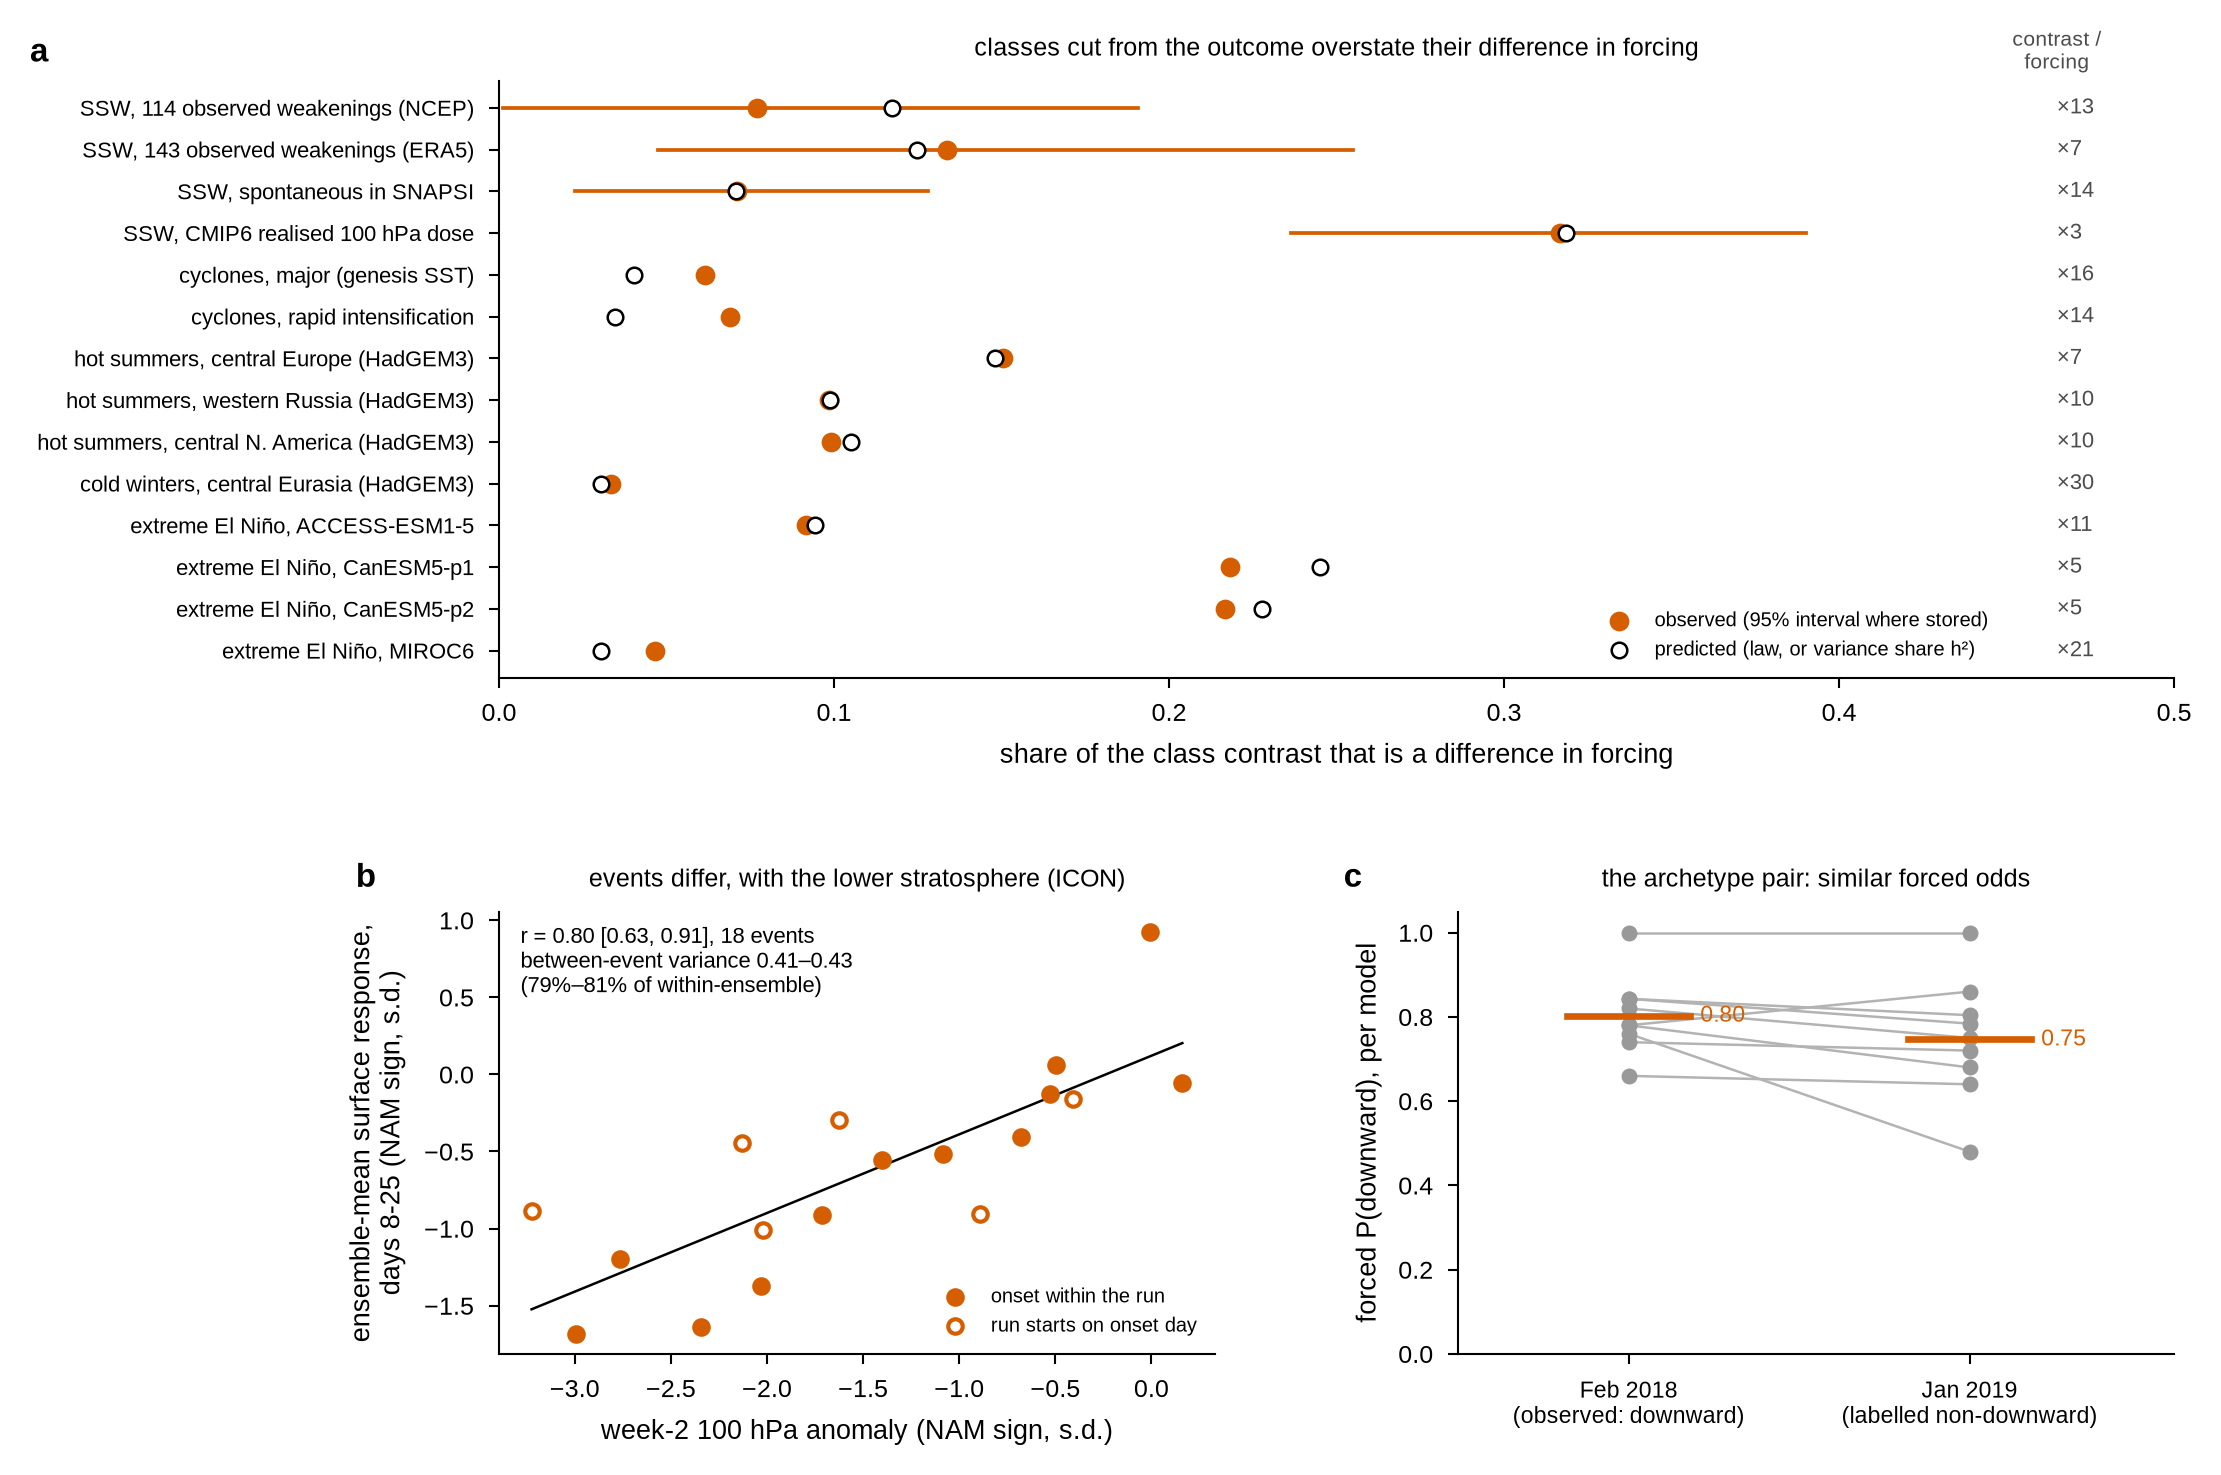
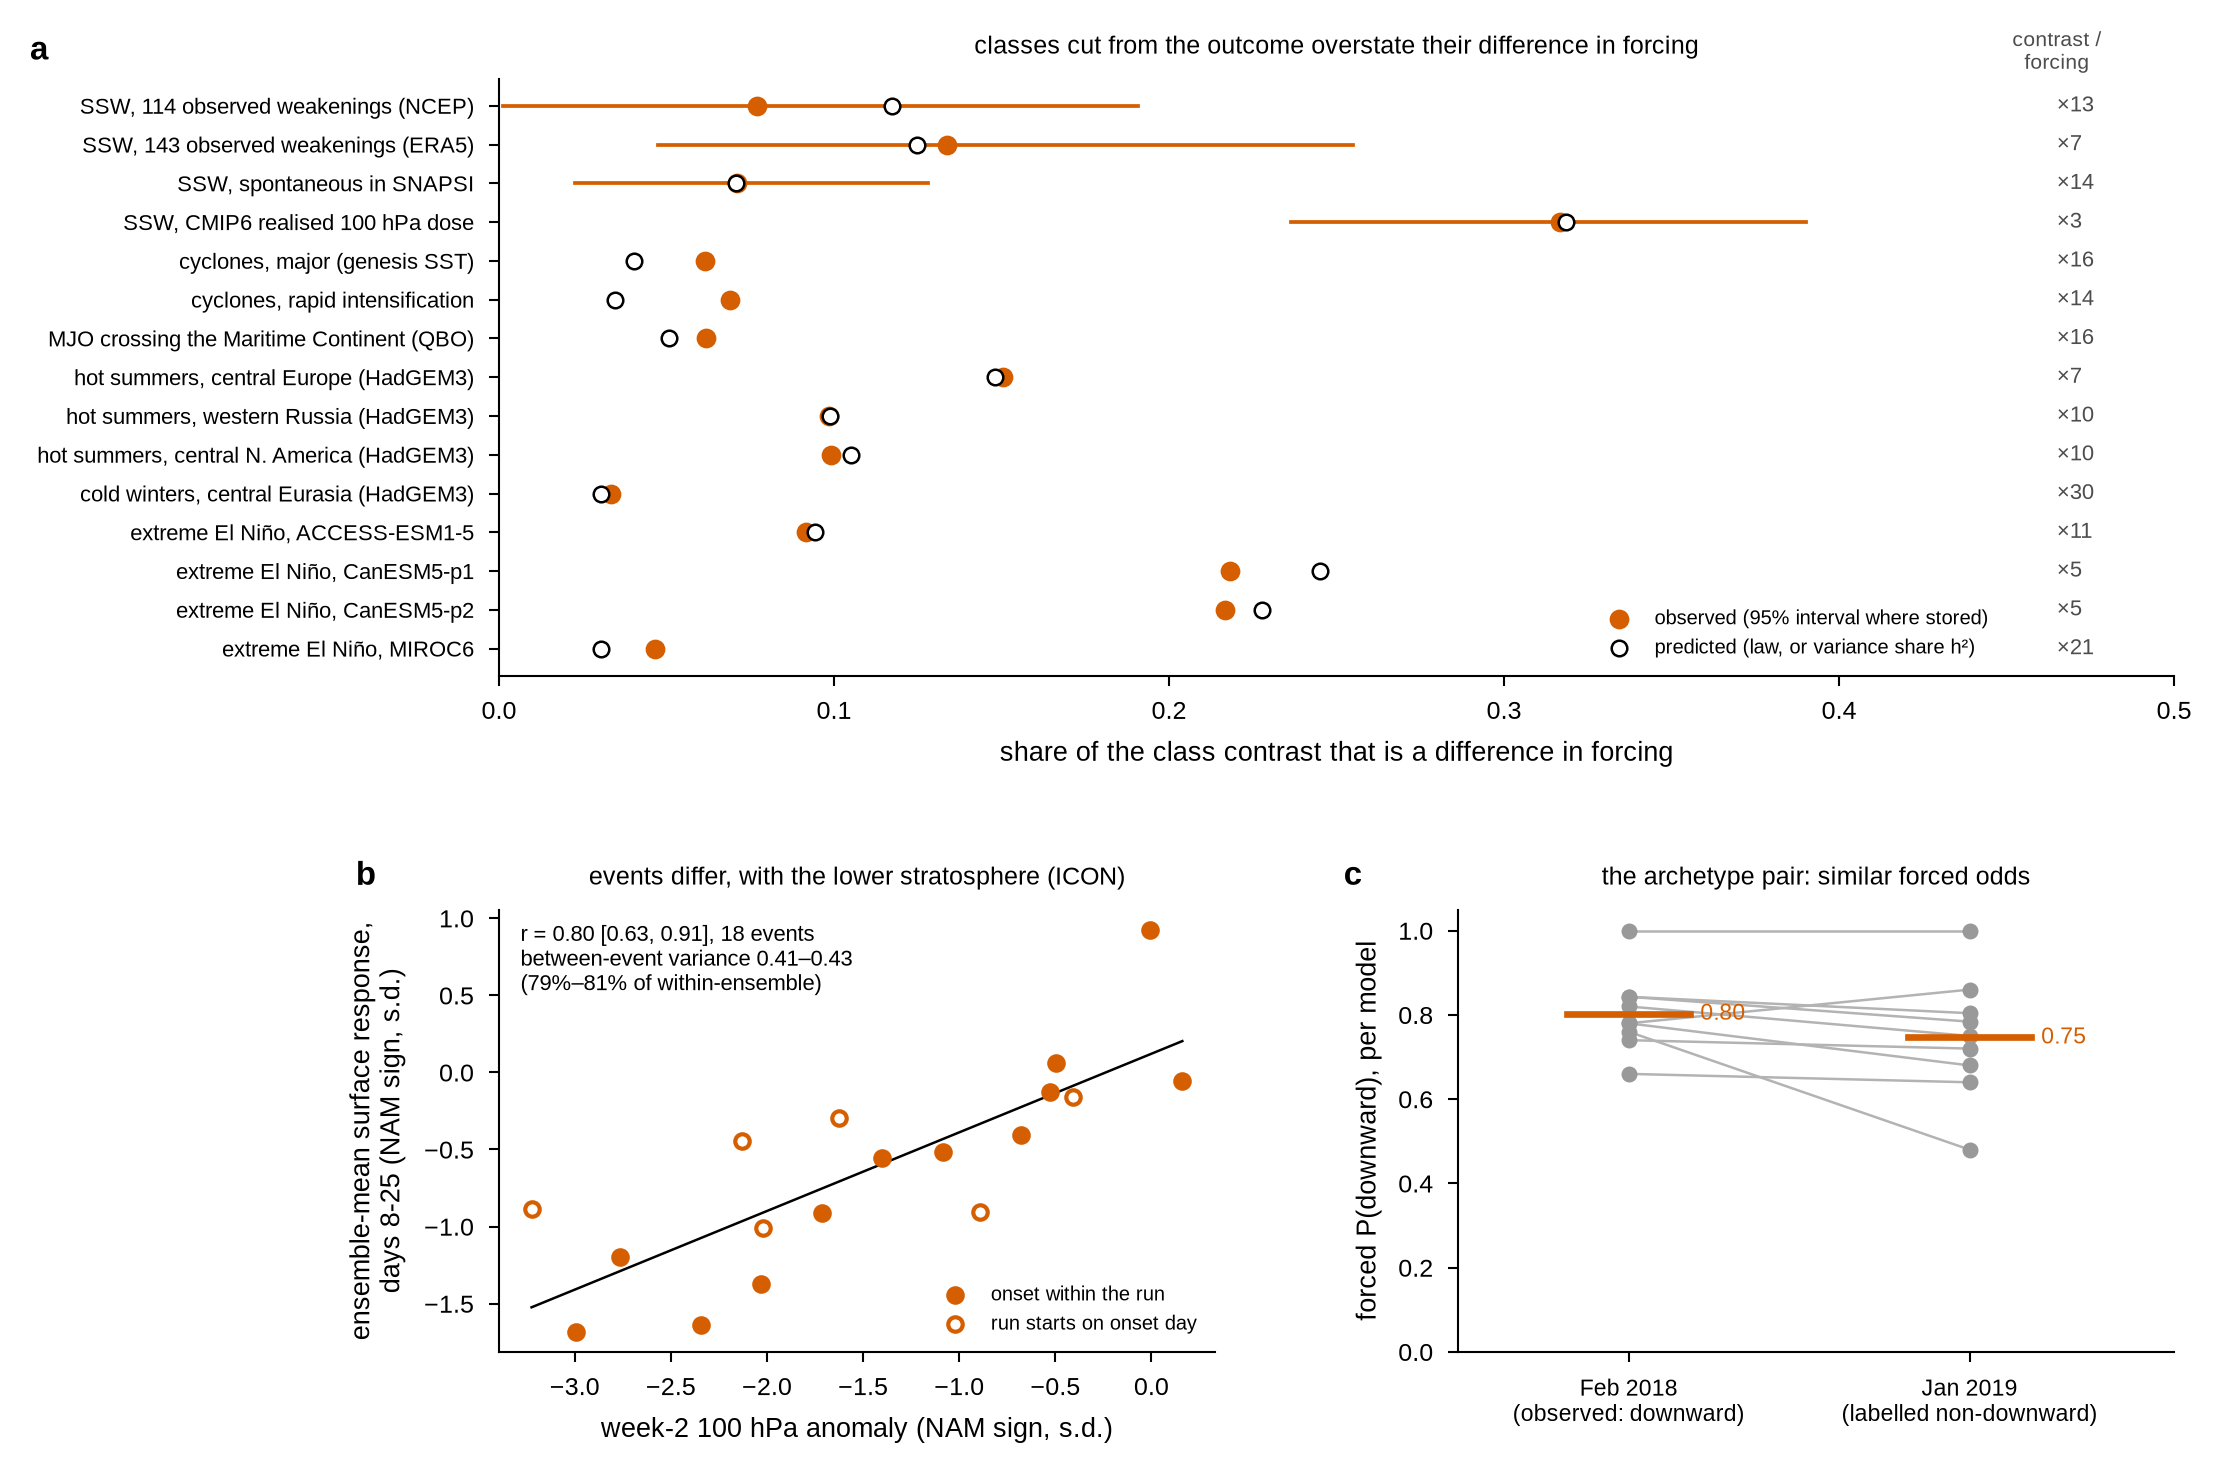
Revision 10c: MJO test written in (registered 36c55ba: QBO changes the crossing rate 40% -> 60%, crossing law holds, forced share = law, fixed types unresolved); Fig. 3a gains the MJO set (15 sets, 3-30-fold, median 10.9); every placeholder filled (cover letter header, date, signature, suggested rev

diff --git a/ssw-design-analysis/09_figures/out/tableED1_tests.tex b/ssw-design-analysis/09_figures/out/tableED1_tests.tex
@@ -118,6 +118,7 @@
 \texttt{CI-1} & validity of intervals from resampling 8-9 SNAPSI centres (seven headline statistics): centre bootstrap vs cluster-robust t, coverage simulated in each layout & revision-8 primary & committed before any interval was recomputed & \texttt{822f418} & paired\_diff: [$-0.1443$, 0.0878] (holds); resid\_shift\_NH: [$-0.0406$, 0.1208] (holds); resid\_locscale\_NH: [$-0.0539$, 0.1372] (holds); Delta\_b\_strong11: [0.0111, 0.3357] (no valid method); regional\_resid: [$-0.2803$, 0.1081] (inconclusive); free\_law\_resid: [$-0.1089$, 0.0846] (holds); SH\_resid\_locscale: [$-0.1912$, 0.1183] (holds); centre bootstrap undercovers in all seven &  &  \\
 \texttt{EN-1} & extreme El Nino (DJF Nino3 rain > 5 mm/day): fixed two-type mixing across 1951-80, 2021-50, 2070-99 in CMIP6 large ensembles selected by Cai et al.'s rule (Holm over models) & revision-8 primary & committed before data (gate before data) & \texttt{3342af3} & selected ['CanESM5-p1', 'CanESM5-p2', 'MIROC6']: extreme El Nino is not a fixed regime whose frequency forcing changes &  &  \\
 \texttt{EN-2} & strong El Nino regime (E index, relative SST) in models that produce one: fixed regimes with free weights vs regimes free per level, 1951-80, 2021-50, 2070-99 (likelihood ratio, parametric bootstrap, rule p <= 0.03 after two calibrations failed their gates; Holm over models) & revision-10 co-primary & committed before data; calibration amended before any statistic & \texttt{db36561, fe25843} & selected ['CESM1-LE', 'GFDL-CM3', 'MIROC6']: LR rejects in all (Holm p 0.0015, 0.0015, 0.0015), but post hoc it also rejects fixed non-Gaussian regimes (false rejection CESM1-LE 0.19, GFDL-CM3 0.11, MIROC6 1.0, skewed 1.0); calibrated post hoc against fixed regimes of each model's own shape: empirical Holm p CESM1-LE 0.003, GFDL-CM3 0.003, MIROC6 0.006; moment test not resolved; shape-free CDF form rejects only in MIROC6 (post hoc); registered tests undecided &  &  \\
+\texttt{MJ-1} & MJO events crossing vs blocked by the Maritime Continent: fixed two-type mixing of the furthest RMM phase reached across QBO u50 terciles (119 NDJFM events, winter bootstrap) & revision-10 primary & committed before data (gate before data) & \texttt{f07480a} & not resolved; crossing law $-0.0469$ [$-0.1892$, 0.1683] (holds); forced share 0.0618 vs law 0.0508 & 0.6351 &  \\
 \texttt{CI-2} & few-cluster robustness of the seven SNAPSI statistics: sign-flip, wild cluster bootstrap-t, KMA+UKMO merged, 90\% equivalence; validated with and without a shared KMA/UKMO effect & revision-10 secondary & committed before any interval was computed & \texttt{db36561} & paired\_diff: holds (4 valid methods); resid\_shift\_NH: holds (3 valid methods); resid\_locscale\_NH: holds (4 valid methods); Delta\_b\_strong11: inconclusive (2 valid methods); regional\_resid: inconclusive (3 valid methods); free\_law\_resid: holds (1 valid methods); SH\_resid\_locscale: no method valid in every layout &  &  \\
 \texttt{GL-4} & the law under SSP5-8.5 2071-2100 vs historical 1985-2014 (precipitation classes; temperature classes empty) & revision-8 secondary & committed before data & \texttt{80edfc5} & 26 of 29 hold, 3 inconclusive, 0 fail &  &  \\
 \texttt{DAV} & January 2021, CESM2(WACCM6) SSW vs scrambled-stratosphere ensembles (21 members), 4 Jan initialisation: back-shift contrast difference; not rejected, low power & revision-5 primary & committed before data & \texttt{738a422} & $-0.4743$ [$-1.3125$, 0.3457] &  &  \\

diff --git a/ssw-design-analysis/10_tables/tableED1_tests.py b/ssw-design-analysis/10_tables/tableED1_tests.py
@@ -86,6 +86,7 @@ def main():
     CIA = J("cluster_ci_audit.json")
     ENX = J("enso_extreme_class.json")
     ENR = J("enso_regime_relative.json")
+    MJO = J("mjo_class_law.json")
     R2 = ("robustness (revision 2)", "committed before run", "4c8b3f2")
     mm = g(MMt, "multimodel", "confirmatory"); nr = g(SRt, "regions", "NEURASIA", "multimodel", "confirmatory")
     rows = [
@@ -475,6 +476,11 @@ def main():
           f"calibrated post hoc against fixed regimes of each model's own shape: empirical Holm p "
           f"{', '.join(f'{k} {v["p_holm"]}' for k, v in (g(ENR,'post_hoc_P1b_empirical_calibration','models') or {}).items())}; "
           f"moment test {g(ENR,'P1_reading')}; shape-free CDF form rejects only in MIROC6 (post hoc); registered tests undecided") if g(ENR, 'P1b_reading') else "pending", None),
+        ("MJ-1", "MJO events crossing vs blocked by the Maritime Continent: fixed two-type mixing of the furthest RMM phase reached across QBO u50 terciles (119 NDJFM events, winter bootstrap)", "revision-10 primary",
+         "committed before data (gate before data)", "f07480a",
+         (f"{g(MJO,'primary','M1_reading')}; crossing law {g(MJO,'primary','M2_law_crossing','residual_sd_units')} {g(MJO,'primary','M2_law_crossing','ci95')} "
+          f"({g(MJO,'primary','M2_law_crossing','reading')}); forced share {g(MJO,'primary','M3_forced_share','R_obs')} vs law {g(MJO,'primary','M3_forced_share','R_LS')}") if g(MJO, 'primary') else "pending",
+         g(MJO, 'primary', 'M1_mixing', 'p_T')),
         ("CI-2", "few-cluster robustness of the seven SNAPSI statistics: sign-flip, wild cluster bootstrap-t, KMA+UKMO merged, 90% equivalence; validated with and without a shared KMA/UKMO effect", "revision-10 secondary",
          "committed before any interval was computed", "db36561",
          ("; ".join(f"{k.split('_', 1)[1]}: " + (f"{'/'.join(sorted(set(v.values())))} ({len(v)} valid methods)" if (v := g(CIA,'r10_few_cluster_robustness','statistics',k,'readings_valid_methods')) else 'no method valid in every layout')

diff --git a/ssw-design-analysis/09_figures/fig3_scope.py b/ssw-design-analysis/09_figures/fig3_scope.py
@@ -10,6 +10,7 @@ Reads (recomputes nothing):
 
   results/current/8_experiment/class_forcing_content.json      forced shares (Z20)
   results/current/8_experiment/enso_extreme_class.json         extreme El Nino (Z22)
+  results/current/8_experiment/mjo_class_law.json              MJO crossing under the QBO (Z26)
 
   a  forced share R of the class contrast (observed, filled; 95% interval where stored) and
      its prediction (open: the law's R_LS where forcing levels are known, else h2), per system
@@ -38,6 +39,7 @@ def main():
     R = S.RESULTS
     cf = json.loads((R / "8_experiment" / "class_forcing_content.json").read_text())
     en = json.loads((R / "8_experiment" / "enso_extreme_class.json").read_text())
+    mj = json.loads((R / "8_experiment" / "mjo_class_law.json").read_text())["primary"]["M3_forced_share"]
     ic = json.loads((R / "5_mechanism" / "icon_event_heterogeneity.json").read_text())["primary_registered"]
     arc = json.loads((R / "8_experiment" / "snapsi_archetype_test.json").read_text())
     grey, verm = "0.6", S.C["vermillion"]
@@ -52,6 +54,7 @@ def main():
     rows.append(("SSW, CMIP6 realised 100 hPa dose", s5["R_obs"], s5["R_obs_summary"]["ci95"], s5["R_h2"], "h2"))
     for k, lab in (("MAJOR", "cyclones, major (genesis SST)"), ("RI", "cyclones, rapid intensification")):
         t = cf["S3_tropical_cyclones"]["global_terciles"][k]; rows.append((lab, t["R_obs"], None, t["R_LS"], "law"))
+    rows.append(("MJO crossing the Maritime Continent (QBO)", mj["R_obs"], None, mj["R_LS"], "law"))
     for k, lab in (("CEUR_JJA", "hot summers, central Europe"), ("WRUS_JJA", "hot summers, western Russia"),
                    ("CNAM_JJA", "hot summers, central N. America"), ("CEAS_DJF", "cold winters, central Eurasia")):
         t = cf["S4_human_forcing_hadgem3"][k]; rows.append((lab + " (HadGEM3)", t["R_obs"], None, t["R_LS"], "law"))

diff --git a/ssw-design-analysis/09_figures/out/tableED1_tests.md b/ssw-design-analysis/09_figures/out/tableED1_tests.md
@@ -104,6 +104,7 @@
 | CI-1 | validity of intervals from resampling 8-9 SNAPSI centres (seven headline statistics): centre bootstrap vs cluster-robust t, coverage simulated in each layout | revision-8 primary | committed before any interval was recomputed | 822f418 | paired_diff: [-0.1443, 0.0878] (holds); resid_shift_NH: [-0.0406, 0.1208] (holds); resid_locscale_NH: [-0.0539, 0.1372] (holds); Delta_b_strong11: [0.0111, 0.3357] (no valid method); regional_resid: [-0.2803, 0.1081] (inconclusive); free_law_resid: [-0.1089, 0.0846] (holds); SH_resid_locscale: [-0.1912, 0.1183] (holds); centre bootstrap undercovers in all seven |  |  |
 | EN-1 | extreme El Nino (DJF Nino3 rain > 5 mm/day): fixed two-type mixing across 1951-80, 2021-50, 2070-99 in CMIP6 large ensembles selected by Cai et al.'s rule (Holm over models) | revision-8 primary | committed before data (gate before data) | 3342af3 | selected ['CanESM5-p1', 'CanESM5-p2', 'MIROC6']: extreme El Nino is not a fixed regime whose frequency forcing changes |  |  |
 | EN-2 | strong El Nino regime (E index, relative SST) in models that produce one: fixed regimes with free weights vs regimes free per level, 1951-80, 2021-50, 2070-99 (likelihood ratio, parametric bootstrap, rule p <= 0.03 after two calibrations failed their gates; Holm over models) | revision-10 co-primary | committed before data; calibration amended before any statistic | db36561, fe25843 | selected ['CESM1-LE', 'GFDL-CM3', 'MIROC6']: LR rejects in all (Holm p 0.0015, 0.0015, 0.0015), but post hoc it also rejects fixed non-Gaussian regimes (false rejection CESM1-LE 0.19, GFDL-CM3 0.11, MIROC6 1.0, skewed 1.0); calibrated post hoc against fixed regimes of each model's own shape: empirical Holm p CESM1-LE 0.003, GFDL-CM3 0.003, MIROC6 0.006; moment test not resolved; shape-free CDF form rejects only in MIROC6 (post hoc); registered tests undecided |  |  |
+| MJ-1 | MJO events crossing vs blocked by the Maritime Continent: fixed two-type mixing of the furthest RMM phase reached across QBO u50 terciles (119 NDJFM events, winter bootstrap) | revision-10 primary | committed before data (gate before data) | f07480a | not resolved; crossing law -0.0469 [-0.1892, 0.1683] (holds); forced share 0.0618 vs law 0.0508 | 0.6351 |  |
 | CI-2 | few-cluster robustness of the seven SNAPSI statistics: sign-flip, wild cluster bootstrap-t, KMA+UKMO merged, 90% equivalence; validated with and without a shared KMA/UKMO effect | revision-10 secondary | committed before any interval was computed | db36561 | paired_diff: holds (4 valid methods); resid_shift_NH: holds (3 valid methods); resid_locscale_NH: holds (4 valid methods); Delta_b_strong11: inconclusive (2 valid methods); regional_resid: inconclusive (3 valid methods); free_law_resid: holds (1 valid methods); SH_resid_locscale: no method valid in every layout |  |  |
 | GL-4 | the law under SSP5-8.5 2071-2100 vs historical 1985-2014 (precipitation classes; temperature classes empty) | revision-8 secondary | committed before data | 80edfc5 | 26 of 29 hold, 3 inconclusive, 0 fail |  |  |
 | DAV | January 2021, CESM2(WACCM6) SSW vs scrambled-stratosphere ensembles (21 members), 4 Jan initialisation: back-shift contrast difference; not rejected, low power | revision-5 primary | committed before data | 738a422 | -0.4743 [-1.3125, 0.3457] |  |  |

diff --git a/ssw-design-analysis/CONSOLIDATED_RESULTS.md b/ssw-design-analysis/CONSOLIDATED_RESULTS.md
@@ -1576,6 +1576,15 @@ Fields re-reduced by area overlap after review (v1 centre binning left GFDL boxe
   else; forced share = law in all three (0.010/0.003/0.15).
 Paper: El Nino out of the abstract; main text states the regime view is not decided.
 
+### Z26 — MJO crossing vs blocked under the QBO (`mjo_class_law.py`, 8_experiment; registered `f07480a` before data; QBO parser fixed `c781048` before any statistic)
+
+119 NDJFM Indian Ocean starts (phase 2-3, amp >= 1), 46 winters 1979/80-2024/25; outcome = furthest unwrapped RMM phase;
+crossing = phase 6. QBO u50 terciles (bounds -2.1, 5.1 m/s). Crossing rate 60% / 38% / 40% (easterly -> westerly).
+- M1 fixed-type mixing: **unresolved** (p 0.64; gate power 0.22).
+- M2 class law (crossing): **holds** -0.05 [-0.19, +0.17]; phase-7 class inconclusive.
+- M3 forced share 0.062 vs law 0.051 (h2 0.069): **what the law predicts**; 1/R = 16 -> 15th set in Fig. 3a (range still 3-30, median 10.9).
+- S1 pre-2014 (87 events): inconclusive throughout.
+
 ## 4. Prior art — verified from source, all must be cited
 
 1. **Karpechko et al. (2017)**, QJRMS 143, 1459, doi 10.1002/qj.3017 — the
